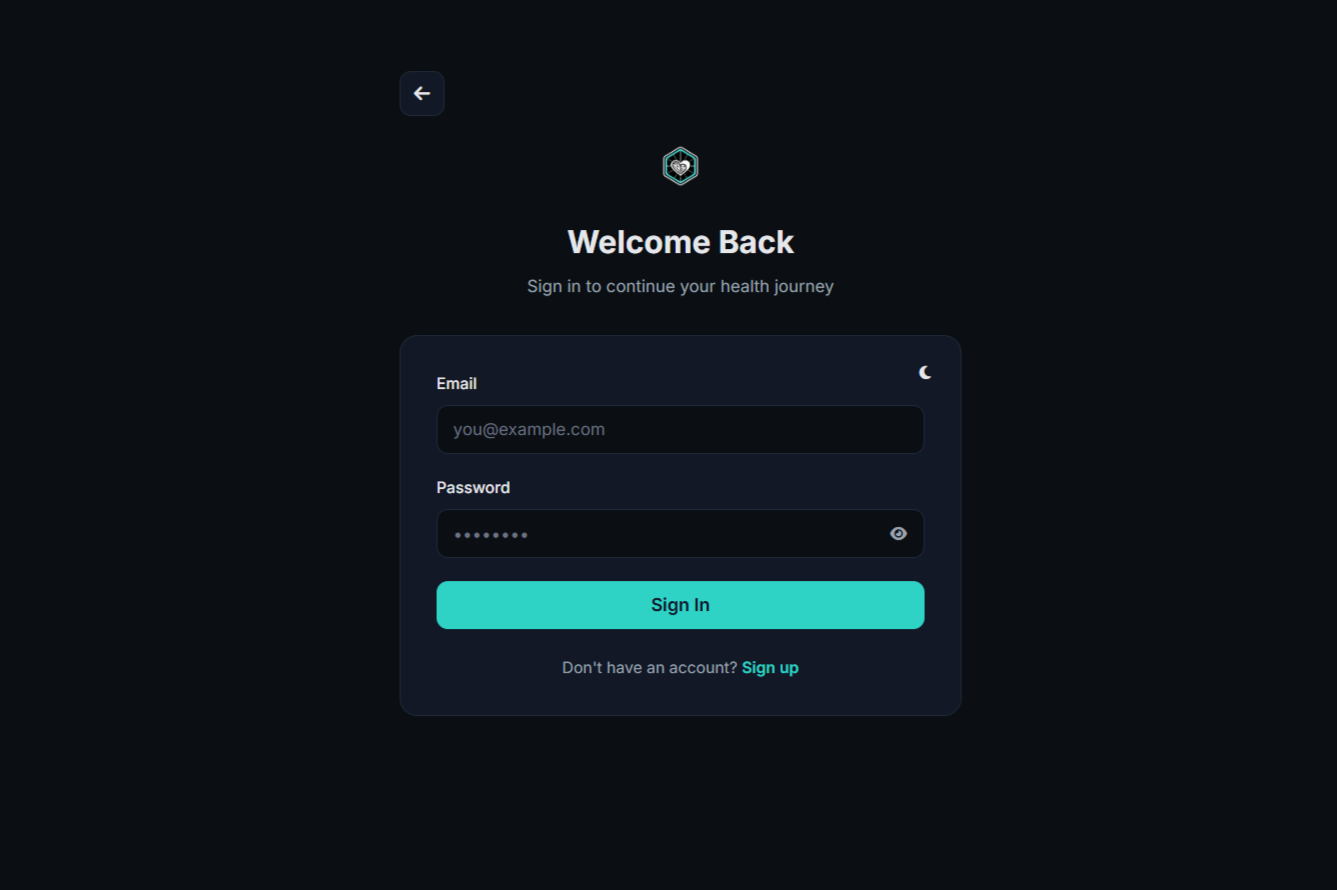
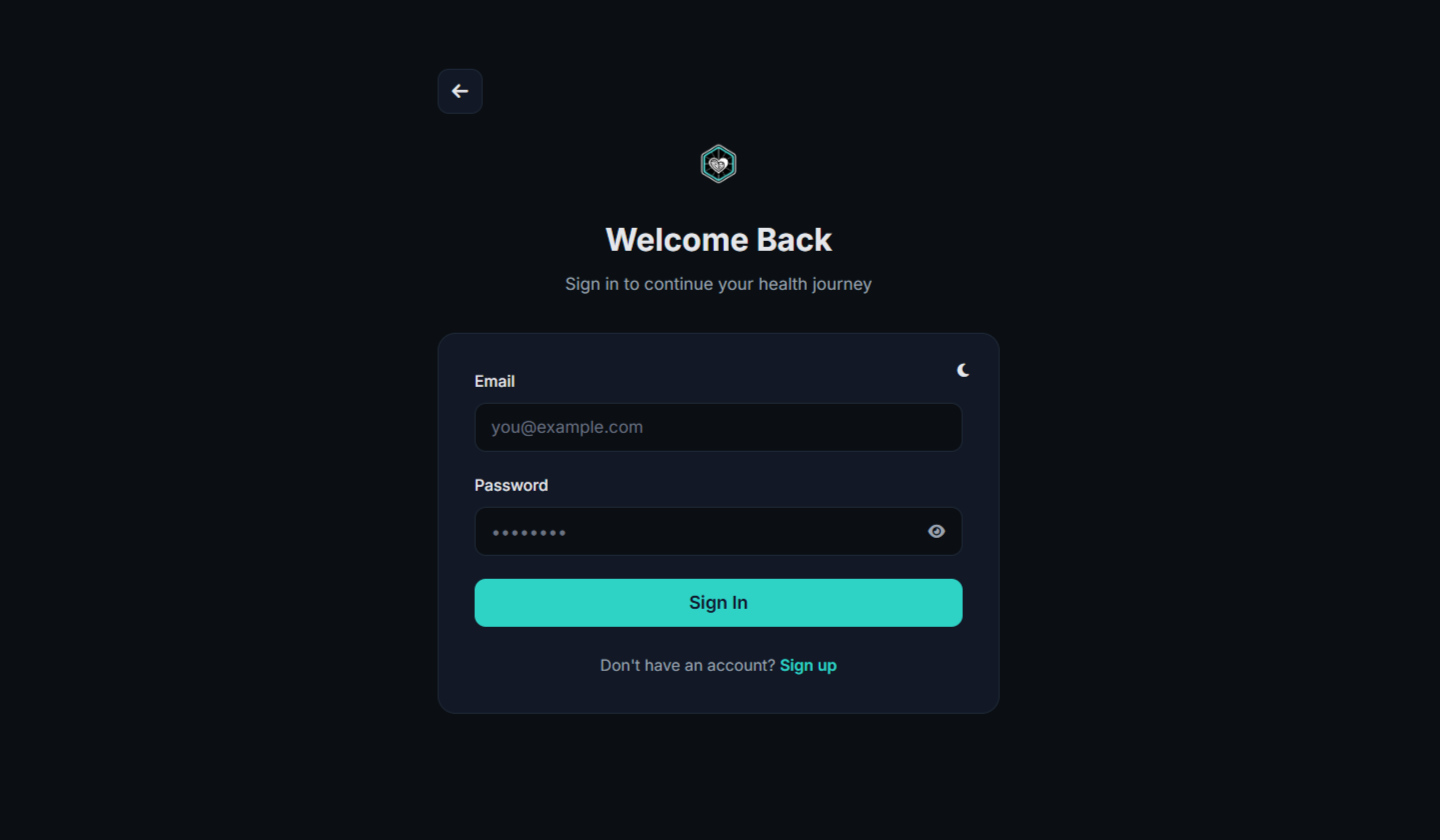
Fixed demo images size

diff --git a/README.md b/README.md
@@ -51,24 +51,24 @@ This project is licensed under the MIT License - see the [LICENSE](LICENSE) file
 ### User Screens
 
 | Landing | Login |
-| :---: | :---: |
-| <img src="./readme/demo/landing.gif" width="100%"> | <img src="./readme/demo/login.png" width="100%"> |
+| --------------------------------------- | ------------------------------------- |
+| ![Landing](./readme/demo/landing.gif) | ![Login](./readme/demo/login.png) |
 
 | Register | Dashboard (Empty) |
-| :---: | :---: |
-| <img src="./readme/demo/register.gif" width="100%"> | <img src="./readme/demo/dashboard-empty.png" width="100%"> |
+| --------------------------------------- | ------------------------------------- |
+| ![Register](./readme/demo/register.gif) | ![Dashboard Empty](./readme/demo/dashboard-empty.png) |
 
 | Dashboard (Full) | Documents |
-| :---: | :---: |
-| <img src="./readme/demo/dashboard-full.gif" width="100%"> | <img src="./readme/demo/document-upload.gif" width="100%"> |
+| --------------------------------------- | ------------------------------------- |
+| ![Dashboard Full](./readme/demo/dashboard-full.gif) | ![Documents](./readme/demo/document-upload.gif) |
 
 | Daily Logs | AI Chat |
-| :---: | :---: |
-| <img src="./readme/demo/daily-log.gif" width="100%"> | <img src="./readme/demo/AI-chat.gif" width="100%"> |
+| --------------------------------------- | ------------------------------------- |
+| ![Daily Logs](./readme/demo/daily-log.gif) | ![AI Chat](./readme/demo/AI-chat.gif) |
 
 | Risk Details | Profile |
-| :---: | :---: |
-| <img src="./readme/demo/risk-details.gif" width="100%"> | <img src="./readme/demo/profile.png" width="100%"> |
+| --------------------------------------- | ------------------------------------- |
+| ![Risk Details](./readme/demo/risk-details.gif) | ![Profile](./readme/demo/profile.png) |
 
 
 <br><br>
